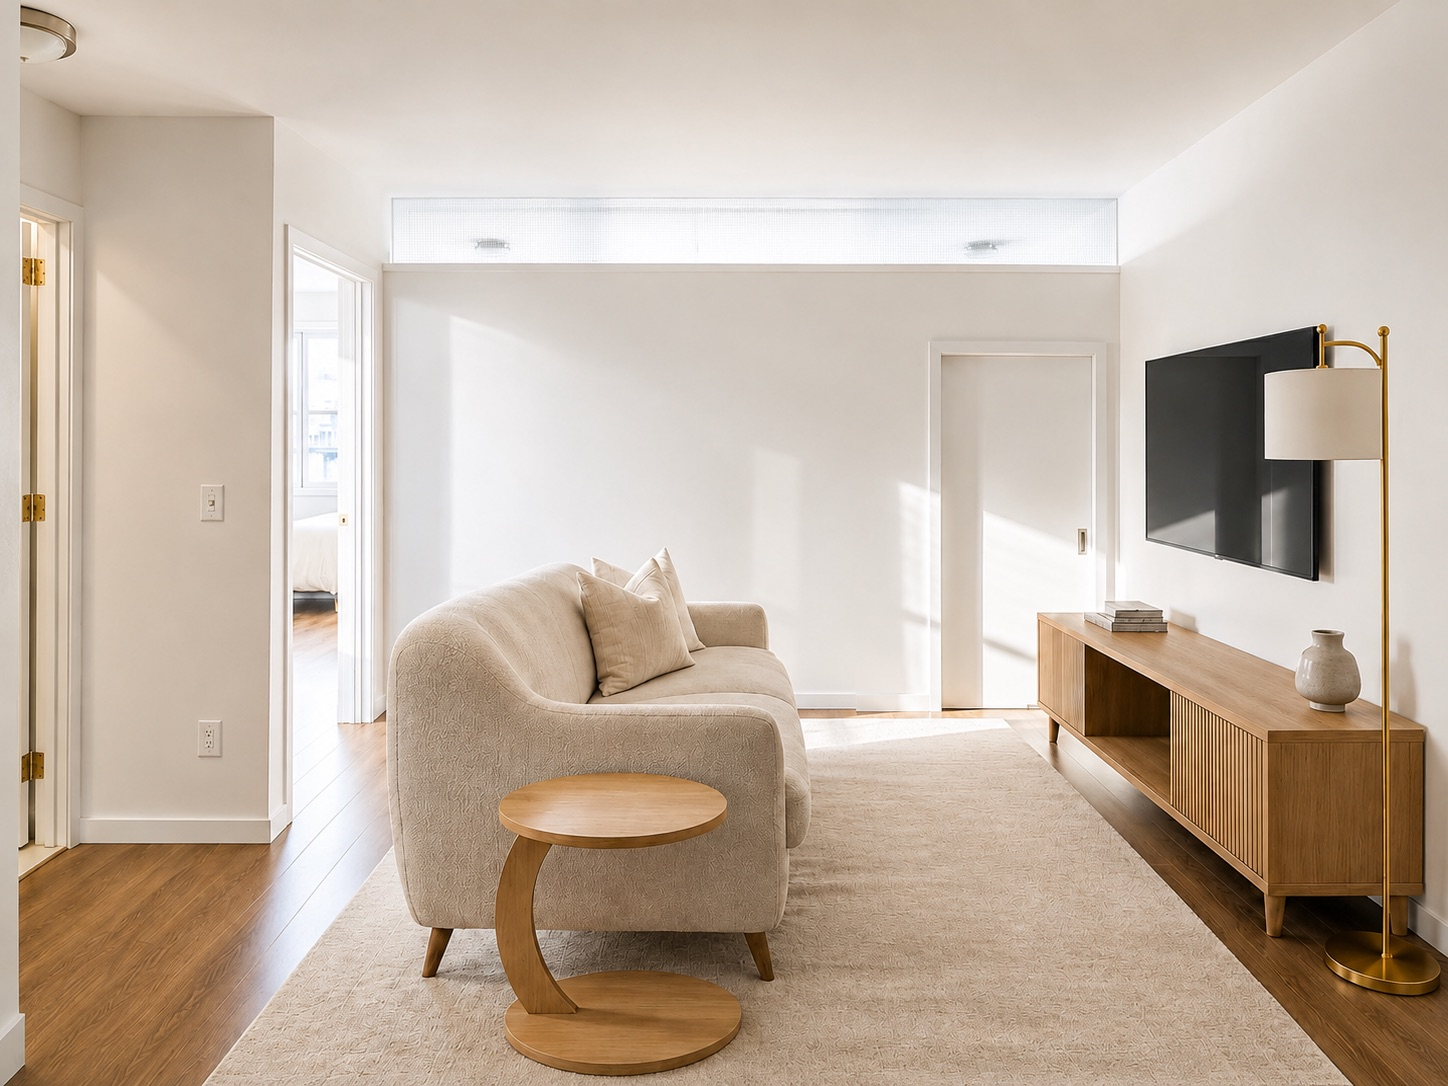
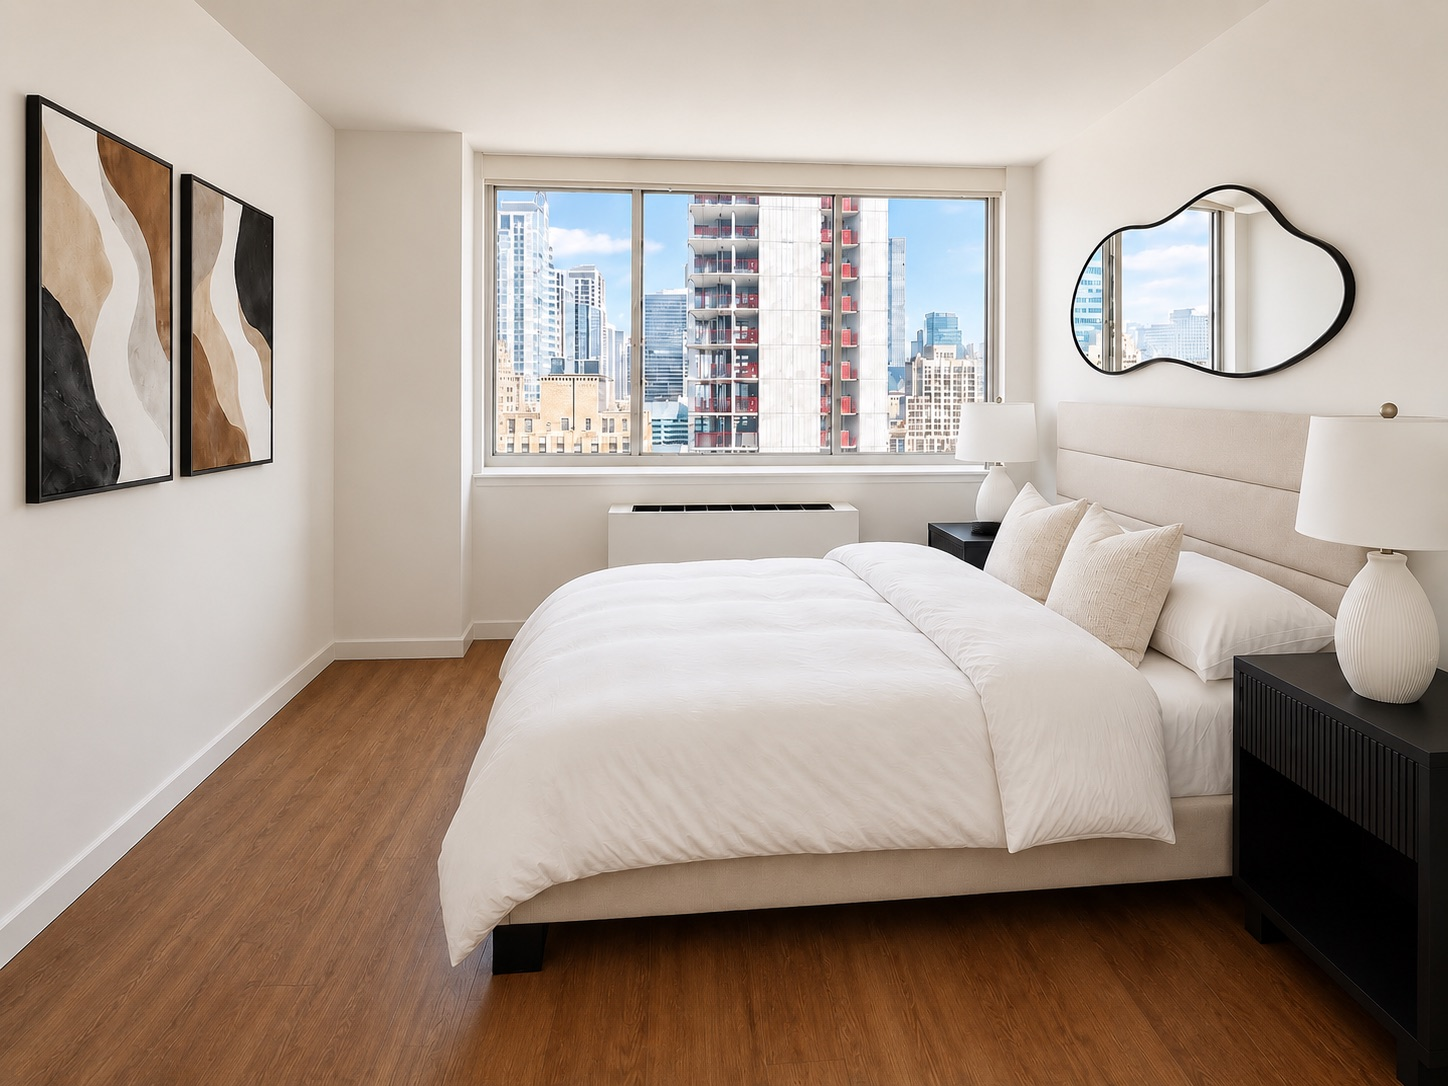
Atlas: call it a 2 bed, use the listing copy as written, lead on the bedroom
Three corrections. The bed count reads "2 Bed" on the unit pages,
availability cards and map popups — "Flex 2 Bed" was my label, not the
one the listing uses.

The About copy is now the Rentals United description verbatim. What was
there before was my own rewrite of it, which added claims about nearby
subway lines and neighbourhoods that no source said.

Gallery leads with the master bedroom instead of the living room. The
files are regenerated in place, so atlas-h-1.jpg is still the card and
map-popup thumbnail and no markup had to change.

diff --git a/atlas-34h.html b/atlas-34h.html
@@ -7,9 +7,9 @@
 <link rel="icon" type="image/png" sizes="192x192" href="logo-192.png">
 <link rel="apple-touch-icon" sizes="180x180" href="apple-touch-icon.png">
 <meta name="viewport" content="width=device-width, initial-scale=1.0">
-<meta name="description" content="Furnished flex two-bedroom at Atlas New York, 66 West 38th Street by Bryant Park. Sky terrace, fitness center, concierge, washer/dryer in unit.">
+<meta name="description" content="Furnished two-bedroom at Atlas New York, 66 West 38th Street by Bryant Park. Sky terrace, fitness center, concierge, washer/dryer in unit.">
 <meta property="og:title" content="Atlas New York, Unit 34H | Broadline Living">
-<meta property="og:description" content="Furnished flex two-bedroom at Atlas New York, 66 West 38th Street by Bryant Park. Sky terrace, fitness center, concierge, washer/dryer in unit.">
+<meta property="og:description" content="Furnished two-bedroom at Atlas New York, 66 West 38th Street by Bryant Park. Sky terrace, fitness center, concierge, washer/dryer in unit.">
 <meta property="og:image" content="https://broadlineliving.com/og-image.jpg">
 <meta property="og:url" content="https://broadlineliving.com/atlas-34h.html">
 <link rel="canonical" href="https://broadlineliving.com/atlas-34h.html">
@@ -17,7 +17,7 @@
 <meta property="og:site_name" content="Broadline Living">
 <meta name="twitter:card" content="summary_large_image">
 <meta name="twitter:title" content="Atlas New York, Unit 34H | Broadline Living">
-<meta name="twitter:description" content="Furnished flex two-bedroom at Atlas New York, 66 West 38th Street by Bryant Park. Sky terrace, fitness center, concierge, washer/dryer in unit.">
+<meta name="twitter:description" content="Furnished two-bedroom at Atlas New York, 66 West 38th Street by Bryant Park. Sky terrace, fitness center, concierge, washer/dryer in unit.">
 <meta name="twitter:image" content="https://broadlineliving.com/og-image.jpg">
 <title>Atlas New York, Unit 34H | Broadline Living</title>
 <link rel="preconnect" href="https://fonts.googleapis.com">
@@ -136,7 +136,7 @@
     <h1>Atlas New York</h1>
     <div class="unit">Unit 34H</div>
     <div class="hood">Bryant Park, Manhattan</div>
-    <div class="meta"><span>Flex 2 Bed</span><span>1 Bath</span><span>Fully Furnished</span></div>
+    <div class="meta"><span>2 Bed</span><span>1 Bath</span><span>Fully Furnished</span></div>
   </section>
 
   <section class="gallery">
@@ -153,7 +153,7 @@
   <section class="pmain">
     <div class="pdesc">
       <h2>About this home</h2>
-      <p>Set in Atlas New York, a modern full-service tower a block from Bryant Park, this flex two-bedroom pairs a stainless-steel kitchen with dishwasher and a stackable washer and dryer in the unit. Residents have the run of a 48th-floor sky terrace with 360-degree views, a resident lounge and terrace, fitness center, movement studio, a library with co-working space, bike storage and concierge service. Every major subway line is within a few minutes&rsquo; walk, with Bryant Park, Times Square and the Garment District at the door. Please note the second bedroom is a flex room with a small gap at the top of the dividing wall, and the building requires ID for all occupants.</p>
+      <p>Modern, Full Service building neighboring Bryant Park and all major transportation. Unit offers a stainless-steel kitchen with dishwasher and in-unit stackable washer &amp; dryer. Amenities include 48th Floor Sky Terrace featuring 360 Degree views, Resident Lounge &amp; Terrace, Fitness Center, Movement studio, Concierge, Library with co-working space, and bike storage. Things to note: Building requires ID submitted for all occupants - Flex 2 bedroom with small gap on second bedroom wall.</p>
       <div class="amen-grid">
         <div class="amen-block"><h3>Unit Amenities</h3><ul><li><span class="amen-ic"><svg viewBox="0 0 24 24" fill="none" stroke="currentColor" stroke-width="1.5" stroke-linecap="round" stroke-linejoin="round"><circle cx="12" cy="12" r="9"/><path d="M12 3v18M3 12h18M5.6 5.6l12.8 12.8M18.4 5.6L5.6 18.4"/></svg></span><span>Central Air</span></li><li><span class="amen-ic"><svg viewBox="0 0 24 24" fill="none" stroke="currentColor" stroke-width="1.5" stroke-linecap="round" stroke-linejoin="round"><rect x="4" y="3" width="16" height="18" rx="1.5"/><circle cx="12" cy="13" r="4.5"/><circle cx="12" cy="13" r="1.5"/><circle cx="7" cy="6.5" r="0.5" fill="currentColor"/><circle cx="9.5" cy="6.5" r="0.5" fill="currentColor"/></svg></span><span>W/D in unit</span></li><li><span class="amen-ic"><svg viewBox="0 0 24 24" fill="none" stroke="currentColor" stroke-width="1.5" stroke-linecap="round" stroke-linejoin="round"><rect x="4" y="3" width="16" height="18" rx="1.5"/><path d="M4 8h16"/><path d="M7 5.5h.01M9.5 5.5h.01M12 5.5h.01"/><path d="M8 12c1.5 1 2.5 1 4 0s2.5-1 4 0"/><path d="M8 15c1.5 1 2.5 1 4 0s2.5-1 4 0"/></svg></span><span>Dishwasher</span></li></ul></div>
         <div class="amen-block"><h3>Building Amenities</h3><ul><li><span class="amen-ic"><svg viewBox="0 0 24 24" fill="none" stroke="currentColor" stroke-width="1.5" stroke-linecap="round" stroke-linejoin="round"><path d="M12 3a4 4 0 014 4v1H8V7a4 4 0 014-4z"/><path d="M4 20a8 8 0 0116 0z"/></svg></span><span>Concierge</span></li><li><span class="amen-ic"><svg viewBox="0 0 24 24" fill="none" stroke="currentColor" stroke-width="1.5" stroke-linecap="round" stroke-linejoin="round"><rect x="4" y="2" width="16" height="20" rx="1"/><path d="M12 2v20"/><path d="M8 8l-2 2 2 2M16 8l2 2-2 2"/><path d="M8 16h8"/></svg></span><span>Elevator</span></li><li><span class="amen-ic"><svg viewBox="0 0 24 24" fill="none" stroke="currentColor" stroke-width="1.5" stroke-linecap="round" stroke-linejoin="round"><path d="M6.5 6.5L17.5 17.5"/><path d="M9 4v3M4 9h3M7.5 4.5L4.5 7.5"/><path d="M15 17v3M17 15h3M19.5 16.5L16.5 19.5"/><rect x="9" y="9" width="6" height="6" rx="0.5" transform="rotate(-45 12 12)"/></svg></span><span>Fitness Center</span></li><li><span class="amen-ic"><svg viewBox="0 0 24 24" fill="none" stroke="currentColor" stroke-width="1.5" stroke-linecap="round" stroke-linejoin="round"><path d="M12 2v20M5 9l7-7 7 7M3 16l9-9 9 9"/></svg></span><span>Sky Terrace</span></li><li><span class="amen-ic"><svg viewBox="0 0 24 24" fill="none" stroke="currentColor" stroke-width="1.5" stroke-linecap="round" stroke-linejoin="round"><path d="M3 11v6a1 1 0 001 1h16a1 1 0 001-1v-6"/><path d="M5 11V7a2 2 0 012-2h10a2 2 0 012 2v4"/><path d="M3 11h18M7 18v2M17 18v2"/></svg></span><span>Resident Lounge</span></li><li><span class="amen-ic"><svg viewBox="0 0 24 24" fill="none" stroke="currentColor" stroke-width="1.5" stroke-linecap="round" stroke-linejoin="round"><rect x="3" y="7" width="18" height="10" rx="1"/><circle cx="8" cy="12" r="1.5"/><circle cx="16" cy="12" r="1.5"/><path d="M3 7l9-4 9 4M8 17v2M16 17v2"/></svg></span><span>Co-Working Space</span></li></ul></div>

diff --git a/atlas-39h.html b/atlas-39h.html
@@ -7,9 +7,9 @@
 <link rel="icon" type="image/png" sizes="192x192" href="logo-192.png">
 <link rel="apple-touch-icon" sizes="180x180" href="apple-touch-icon.png">
 <meta name="viewport" content="width=device-width, initial-scale=1.0">
-<meta name="description" content="Furnished flex two-bedroom at Atlas New York, 66 West 38th Street by Bryant Park. Sky terrace, fitness center, concierge, washer/dryer in unit.">
+<meta name="description" content="Furnished two-bedroom at Atlas New York, 66 West 38th Street by Bryant Park. Sky terrace, fitness center, concierge, washer/dryer in unit.">
 <meta property="og:title" content="Atlas New York, Unit 39H | Broadline Living">
-<meta property="og:description" content="Furnished flex two-bedroom at Atlas New York, 66 West 38th Street by Bryant Park. Sky terrace, fitness center, concierge, washer/dryer in unit.">
+<meta property="og:description" content="Furnished two-bedroom at Atlas New York, 66 West 38th Street by Bryant Park. Sky terrace, fitness center, concierge, washer/dryer in unit.">
 <meta property="og:image" content="https://broadlineliving.com/og-image.jpg">
 <meta property="og:url" content="https://broadlineliving.com/atlas-39h.html">
 <link rel="canonical" href="https://broadlineliving.com/atlas-39h.html">
@@ -17,7 +17,7 @@
 <meta property="og:site_name" content="Broadline Living">
 <meta name="twitter:card" content="summary_large_image">
 <meta name="twitter:title" content="Atlas New York, Unit 39H | Broadline Living">
-<meta name="twitter:description" content="Furnished flex two-bedroom at Atlas New York, 66 West 38th Street by Bryant Park. Sky terrace, fitness center, concierge, washer/dryer in unit.">
+<meta name="twitter:description" content="Furnished two-bedroom at Atlas New York, 66 West 38th Street by Bryant Park. Sky terrace, fitness center, concierge, washer/dryer in unit.">
 <meta name="twitter:image" content="https://broadlineliving.com/og-image.jpg">
 <title>Atlas New York, Unit 39H | Broadline Living</title>
 <link rel="preconnect" href="https://fonts.googleapis.com">
@@ -136,7 +136,7 @@
     <h1>Atlas New York</h1>
     <div class="unit">Unit 39H</div>
     <div class="hood">Bryant Park, Manhattan</div>
-    <div class="meta"><span>Flex 2 Bed</span><span>1 Bath</span><span>Fully Furnished</span></div>
+    <div class="meta"><span>2 Bed</span><span>1 Bath</span><span>Fully Furnished</span></div>
   </section>
 
   <section class="gallery">
@@ -153,7 +153,7 @@
   <section class="pmain">
     <div class="pdesc">
       <h2>About this home</h2>
-      <p>Set in Atlas New York, a modern full-service tower a block from Bryant Park, this flex two-bedroom pairs a stainless-steel kitchen with dishwasher and a stackable washer and dryer in the unit. Residents have the run of a 48th-floor sky terrace with 360-degree views, a resident lounge and terrace, fitness center, movement studio, a library with co-working space, bike storage and concierge service. Every major subway line is within a few minutes&rsquo; walk, with Bryant Park, Times Square and the Garment District at the door. Please note the second bedroom is a flex room with a small gap at the top of the dividing wall, and the building requires ID for all occupants.</p>
+      <p>Modern, Full Service building neighboring Bryant Park and all major transportation. Unit offers a stainless-steel kitchen with dishwasher and in-unit stackable washer &amp; dryer. Amenities include 48th Floor Sky Terrace featuring 360 Degree views, Resident Lounge &amp; Terrace, Fitness Center, Movement studio, Concierge, Library with co-working space, and bike storage. Things to note: Building requires ID submitted for all occupants - Flex 2 bedroom with small gap on second bedroom wall.</p>
       <div class="amen-grid">
         <div class="amen-block"><h3>Unit Amenities</h3><ul><li><span class="amen-ic"><svg viewBox="0 0 24 24" fill="none" stroke="currentColor" stroke-width="1.5" stroke-linecap="round" stroke-linejoin="round"><circle cx="12" cy="12" r="9"/><path d="M12 3v18M3 12h18M5.6 5.6l12.8 12.8M18.4 5.6L5.6 18.4"/></svg></span><span>Central Air</span></li><li><span class="amen-ic"><svg viewBox="0 0 24 24" fill="none" stroke="currentColor" stroke-width="1.5" stroke-linecap="round" stroke-linejoin="round"><rect x="4" y="3" width="16" height="18" rx="1.5"/><circle cx="12" cy="13" r="4.5"/><circle cx="12" cy="13" r="1.5"/><circle cx="7" cy="6.5" r="0.5" fill="currentColor"/><circle cx="9.5" cy="6.5" r="0.5" fill="currentColor"/></svg></span><span>W/D in unit</span></li><li><span class="amen-ic"><svg viewBox="0 0 24 24" fill="none" stroke="currentColor" stroke-width="1.5" stroke-linecap="round" stroke-linejoin="round"><rect x="4" y="3" width="16" height="18" rx="1.5"/><path d="M4 8h16"/><path d="M7 5.5h.01M9.5 5.5h.01M12 5.5h.01"/><path d="M8 12c1.5 1 2.5 1 4 0s2.5-1 4 0"/><path d="M8 15c1.5 1 2.5 1 4 0s2.5-1 4 0"/></svg></span><span>Dishwasher</span></li></ul></div>
         <div class="amen-block"><h3>Building Amenities</h3><ul><li><span class="amen-ic"><svg viewBox="0 0 24 24" fill="none" stroke="currentColor" stroke-width="1.5" stroke-linecap="round" stroke-linejoin="round"><path d="M12 3a4 4 0 014 4v1H8V7a4 4 0 014-4z"/><path d="M4 20a8 8 0 0116 0z"/></svg></span><span>Concierge</span></li><li><span class="amen-ic"><svg viewBox="0 0 24 24" fill="none" stroke="currentColor" stroke-width="1.5" stroke-linecap="round" stroke-linejoin="round"><rect x="4" y="2" width="16" height="20" rx="1"/><path d="M12 2v20"/><path d="M8 8l-2 2 2 2M16 8l2 2-2 2"/><path d="M8 16h8"/></svg></span><span>Elevator</span></li><li><span class="amen-ic"><svg viewBox="0 0 24 24" fill="none" stroke="currentColor" stroke-width="1.5" stroke-linecap="round" stroke-linejoin="round"><path d="M6.5 6.5L17.5 17.5"/><path d="M9 4v3M4 9h3M7.5 4.5L4.5 7.5"/><path d="M15 17v3M17 15h3M19.5 16.5L16.5 19.5"/><rect x="9" y="9" width="6" height="6" rx="0.5" transform="rotate(-45 12 12)"/></svg></span><span>Fitness Center</span></li><li><span class="amen-ic"><svg viewBox="0 0 24 24" fill="none" stroke="currentColor" stroke-width="1.5" stroke-linecap="round" stroke-linejoin="round"><path d="M12 2v20M5 9l7-7 7 7M3 16l9-9 9 9"/></svg></span><span>Sky Terrace</span></li><li><span class="amen-ic"><svg viewBox="0 0 24 24" fill="none" stroke="currentColor" stroke-width="1.5" stroke-linecap="round" stroke-linejoin="round"><path d="M3 11v6a1 1 0 001 1h16a1 1 0 001-1v-6"/><path d="M5 11V7a2 2 0 012-2h10a2 2 0 012 2v4"/><path d="M3 11h18M7 18v2M17 18v2"/></svg></span><span>Resident Lounge</span></li><li><span class="amen-ic"><svg viewBox="0 0 24 24" fill="none" stroke="currentColor" stroke-width="1.5" stroke-linecap="round" stroke-linejoin="round"><rect x="3" y="7" width="18" height="10" rx="1"/><circle cx="8" cy="12" r="1.5"/><circle cx="16" cy="12" r="1.5"/><path d="M3 7l9-4 9 4M8 17v2M16 17v2"/></svg></span><span>Co-Working Space</span></li></ul></div>

diff --git a/availability.html b/availability.html
@@ -126,8 +126,8 @@
   <div class="listings" id="listings">
     <div class="pcard" data-id="p14" data-bld="b-aurora" data-hood="Murray Hill" data-beds="Studio"><a class="pcard-a" href="aurora-2301.html"><div class="img" style="background-image:url('the-aurora-2301-git/aurora-2301-1.jpg')"></div><div class="body"><div><div class="name">The Aurora</div><div class="unit">Unit 2301</div><div class="hood">Murray Hill, Manhattan</div></div><div><div class="meta"><span>Studio</span><span>1 Bath</span></div><div class="row"><span></span><span class="lnk">View home &#8594;</span></div></div></div></a><div class="pcard-foot"><span class="avail-badge" data-avail-badge="aurora-2301"></span><a class="pcard-book" href="aurora-2301.html">Check dates &amp; price</a></div></div>
 
-    <div class="pcard" data-id="p-atlas-34h" data-bld="b-atlas" data-hood="Bryant Park" data-beds="2"><a class="pcard-a" href="atlas-34h.html"><div class="img" style="background-image:url('atlas-h-line-git/atlas-h-1.jpg')"></div><div class="body"><div><div class="name">Atlas New York</div><div class="unit">Unit 34H</div><div class="hood">Bryant Park, Manhattan</div></div><div><div class="meta"><span>Flex 2 Bed</span><span>1 Bath</span></div><div class="row"><span></span><span class="lnk">View home &#8594;</span></div></div></div></a><div class="pcard-foot"><span class="avail-badge" data-avail-badge="atlas-34h"></span><a class="pcard-book" href="atlas-34h.html">Check dates &amp; price</a></div></div>
-    <div class="pcard" data-id="p-atlas-39h" data-bld="b-atlas" data-hood="Bryant Park" data-beds="2"><a class="pcard-a" href="atlas-39h.html"><div class="img" style="background-image:url('atlas-h-line-git/atlas-h-1.jpg')"></div><div class="body"><div><div class="name">Atlas New York</div><div class="unit">Unit 39H</div><div class="hood">Bryant Park, Manhattan</div></div><div><div class="meta"><span>Flex 2 Bed</span><span>1 Bath</span></div><div class="row"><span></span><span class="lnk">View home &#8594;</span></div></div></div></a><div class="pcard-foot"><span class="avail-badge" data-avail-badge="atlas-39h"></span><a class="pcard-book" href="atlas-39h.html">Check dates &amp; price</a></div></div>
+    <div class="pcard" data-id="p-atlas-34h" data-bld="b-atlas" data-hood="Bryant Park" data-beds="2"><a class="pcard-a" href="atlas-34h.html"><div class="img" style="background-image:url('atlas-h-line-git/atlas-h-1.jpg')"></div><div class="body"><div><div class="name">Atlas New York</div><div class="unit">Unit 34H</div><div class="hood">Bryant Park, Manhattan</div></div><div><div class="meta"><span>2 Bed</span><span>1 Bath</span></div><div class="row"><span></span><span class="lnk">View home &#8594;</span></div></div></div></a><div class="pcard-foot"><span class="avail-badge" data-avail-badge="atlas-34h"></span><a class="pcard-book" href="atlas-34h.html">Check dates &amp; price</a></div></div>
+    <div class="pcard" data-id="p-atlas-39h" data-bld="b-atlas" data-hood="Bryant Park" data-beds="2"><a class="pcard-a" href="atlas-39h.html"><div class="img" style="background-image:url('atlas-h-line-git/atlas-h-1.jpg')"></div><div class="body"><div><div class="name">Atlas New York</div><div class="unit">Unit 39H</div><div class="hood">Bryant Park, Manhattan</div></div><div><div class="meta"><span>2 Bed</span><span>1 Bath</span></div><div class="row"><span></span><span class="lnk">View home &#8594;</span></div></div></div></a><div class="pcard-foot"><span class="avail-badge" data-avail-badge="atlas-39h"></span><a class="pcard-book" href="atlas-39h.html">Check dates &amp; price</a></div></div>
     <div class="pcard" data-id="p16" data-bld="b-sheridan" data-hood="West Village" data-beds="1"><a class="pcard-a" href="sheridan-10a.html"><div class="img" style="background-image:url('10-sheridan-square-10A-git/sheridan-10A-1.jpg')"></div><div class="body"><div><div class="name">The Shenandoah</div><div class="unit">Unit 10A</div><div class="hood">West Village, Manhattan</div></div><div><div class="meta"><span>1 Bed</span><span>1 Bath</span></div><div class="row"><span></span><span class="lnk">View home &#8594;</span></div></div></div></a><div class="pcard-foot"><span class="avail-badge" data-avail-badge="sheridan-10a"></span><a class="pcard-book" href="sheridan-10a.html">Check dates &amp; price</a></div></div>
     <div class="pcard" data-id="p15" data-bld="b-lawrence" data-hood="Downtown Brooklyn" data-beds="1"><a class="pcard-a" href="lawrence-2401.html"><div class="img" style="background-image:url('150-lawrence-street-2401-git/lawrence-2401-1.jpg')"></div><div class="body"><div><div class="name">Lawrence Tower</div><div class="unit">Unit 2401</div><div class="hood">Downtown Brooklyn</div></div><div><div class="meta"><span>1 Bed</span><span>1 Bath</span></div><div class="row"><span></span><span class="lnk">View home &#8594;</span></div></div></div></a><div class="pcard-foot"><span class="avail-badge" data-avail-badge="lawrence-2401"></span><a class="pcard-book" href="lawrence-2401.html">Check dates &amp; price</a></div></div>
 
@@ -217,8 +217,8 @@
       id:'b-atlas', name:'Atlas New York', sub:'Bryant Park, Manhattan',
       lat:40.752001, lng:-73.985503,
       units:[
-        {unit:'34H', meta:'Flex 2 Bed, 1 Bath', url:'atlas-34h.html', img:'atlas-h-line-git/atlas-h-1.jpg'},
-        {unit:'39H', meta:'Flex 2 Bed, 1 Bath', url:'atlas-39h.html', img:'atlas-h-line-git/atlas-h-1.jpg'}
+        {unit:'34H', meta:'2 Bed, 1 Bath', url:'atlas-34h.html', img:'atlas-h-line-git/atlas-h-1.jpg'},
+        {unit:'39H', meta:'2 Bed, 1 Bath', url:'atlas-39h.html', img:'atlas-h-line-git/atlas-h-1.jpg'}
       ]
     },
     {
